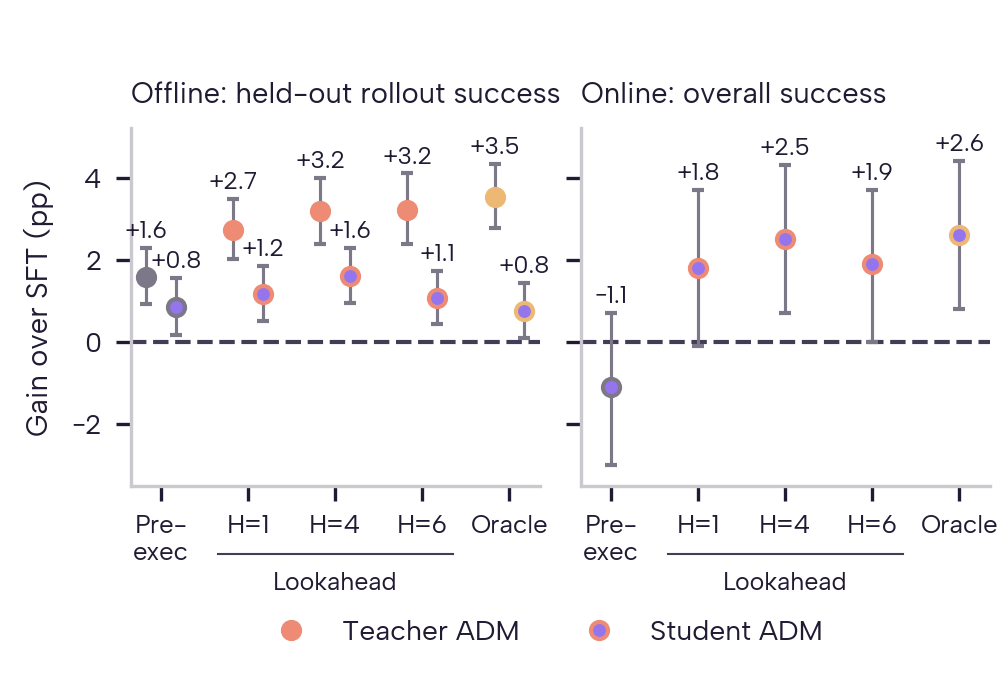
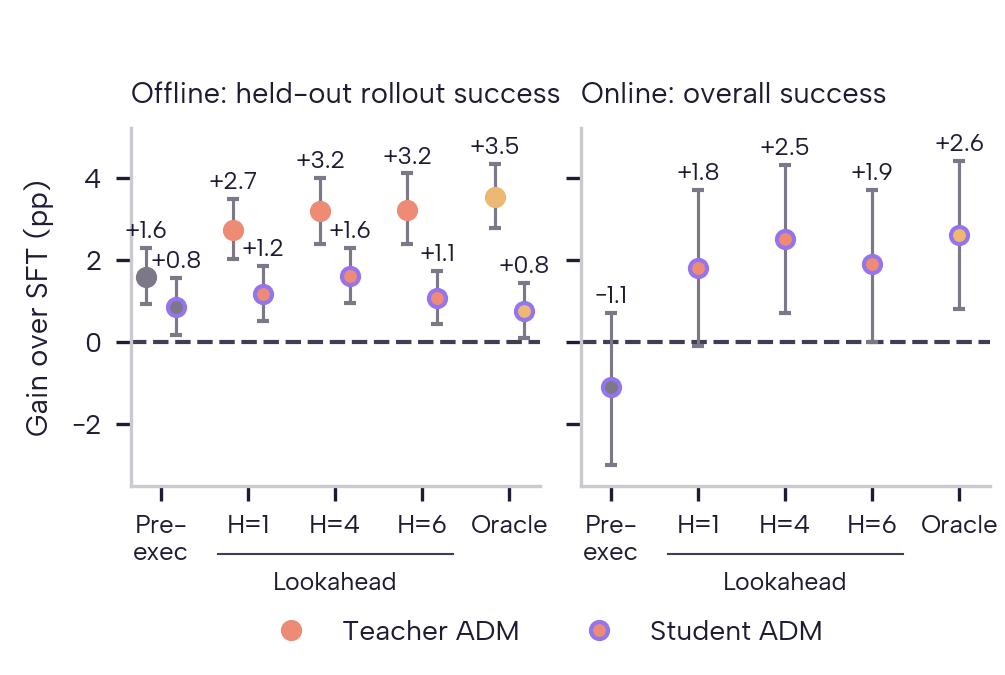
Use label-source fills and purple outlines for student ADM markers

diff --git a/openwebrl/docs/arm_results/rl_integration/selection-label-setups-kfold-20261101-plot.py b/openwebrl/docs/arm_results/rl_integration/selection-label-setups-kfold-20261101-plot.py
@@ -59,15 +59,15 @@ fig, axes = plt.subplots(1, 2, figsize=(3.35, 2.25), sharey=True)
 for ax, (title, kind, base) in zip(axes, PANELS):
     ax.axhline(0, color=MUTED, lw=1, ls="--", zorder=0)
     for x, (_, color, src, live) in enumerate(ROWS):
-        outline = color
+        outline = C["ADM_STUDENT"]
         if kind == "live":
             if live is None:
                 ax.text(x, 0.4, "not run\nlive", ha="center", va="bottom", fontsize=6.5, color=MUTED)
                 continue
-            point(ax, x, LIVE3["weighted"][LIVE3_KEY[src]]["minus_sft"], C["ADM_STUDENT"], "o", True, outline=outline)
+            point(ax, x, LIVE3["weighted"][LIVE3_KEY[src]]["minus_sft"], color, "o", True, outline=outline)
         else:
             point(ax, x - 0.17, P[src]["teacher_minus_sft"], color, "o", True)
-            point(ax, x + 0.17, P[src]["head_minus_sft"], C["ADM_STUDENT"], "o", True, outline=outline)
+            point(ax, x + 0.17, P[src]["head_minus_sft"], color, "o", True, outline=outline)
     ax.set_title(title, fontsize=7, loc="left", color=INK, pad=6)
     ax.set_xticks(range(len(ROWS)), [r[0] for r in ROWS], fontsize=6.2); ax.set_xlim(-0.35, len(ROWS) - 0.65)
     # The shared label spans whichever horizons are displayed.
@@ -87,8 +87,8 @@ axes[0].set_ylabel("Gain over SFT (pp)", fontsize=7, color=INK)
 handles = [
     Line2D([], [], marker="o", ls="", color=C["LOOKAHEAD_TEACHER"], ms=4.1,
            markeredgewidth=1.0, markerfacecolor=C["LOOKAHEAD_TEACHER"]),
-    Line2D([], [], marker="o", ls="", color=C["LOOKAHEAD_TEACHER"], ms=4.1,
-           markeredgewidth=1.0, markerfacecolor=C["ADM_STUDENT"]),
+    Line2D([], [], marker="o", ls="", color=C["ADM_STUDENT"], ms=4.1,
+           markeredgewidth=1.0, markerfacecolor=C["LOOKAHEAD_TEACHER"]),
 ]
 fig.legend(handles, ["Teacher ADM", "Student ADM"], frameon=False, fontsize=6.8,
            loc="lower center", ncol=2, bbox_to_anchor=(0.54, 0.005), columnspacing=1.8)

diff --git a/openwebrl/docs/ARM_FINAL_RESULTS.md b/openwebrl/docs/ARM_FINAL_RESULTS.md
@@ -1418,7 +1418,7 @@ All four attention × scorer × loss combinations plus causal attention, one run
 
   ![Teacher ADM and Student ADM (solid circles): offline held-out rollout success and online overall success, shown as gains over SFT](arm_results/rl_integration/selection-label-setups-kfold-20261101.png)
 
-  *Column-width 3.35 × 2.25-inch layout. Shown label sources: Pre-exec, Lookahead H = 1, H = 4, H = 6 and Oracle. H = 1 is the immediate-result teacher; H = 4/6 correspond to the legacy three-/five-continuation-action conditions. H = 2 remains in the tables but is omitted here. The three H ticks share a Lookahead label to fit the column width. Solid circles: Teacher ADM, colored by label source (neutral Pre-exec, salmon Lookahead, amber Oracle); purple-filled circles with thick label-source outlines: Student ADM-22M (gray Pre-exec, salmon-orange Lookahead, amber Oracle; online evaluates the student only). Oracle uses the same amber (`#EDB774`) as the collection schematic. Offline: 1,725 states, 433 tasks, task-level 5-fold student predictions with 3 training seeds; held-out rollouts 4–8, valid only. Labels use rollouts 1–3 where applicable; Oracle selects the best action on those label rollouts. Online: task-weighted overall success across OM2W (300 tasks), WebVoyager (595) and DeepShop (150), with weights 300/1,045, 595/1,045 and 150/1,045; seed-0 student, 3 runs. Gains are relative to one SFT 4B sample on each panel's own population (offline 38.8%, online 41.4%); compare orderings across panels, not gain sizes. Bars: 95% intervals, task-clustered bootstrap offline and paired over tasks online. All intervals are shown in full.* [Paper PDF](arm_results/rl_integration/selection-label-setups-kfold-20261101.pdf) · [SVG](arm_results/rl_integration/selection-label-setups-kfold-20261101.svg).
+  *Column-width 3.35 × 2.25-inch layout. Shown label sources: Pre-exec, Lookahead H = 1, H = 4, H = 6 and Oracle. H = 1 is the immediate-result teacher; H = 4/6 correspond to the legacy three-/five-continuation-action conditions. H = 2 remains in the tables but is omitted here. The three H ticks share a Lookahead label to fit the column width. Solid circles: Teacher ADM, colored by label source (neutral Pre-exec, salmon Lookahead, amber Oracle); label-source-filled circles with purple outlines: Student ADM-22M (gray Pre-exec, salmon-orange Lookahead, amber Oracle; online evaluates the student only). Oracle uses the same amber (`#EDB774`) as the collection schematic. Offline: 1,725 states, 433 tasks, task-level 5-fold student predictions with 3 training seeds; held-out rollouts 4–8, valid only. Labels use rollouts 1–3 where applicable; Oracle selects the best action on those label rollouts. Online: task-weighted overall success across OM2W (300 tasks), WebVoyager (595) and DeepShop (150), with weights 300/1,045, 595/1,045 and 150/1,045; seed-0 student, 3 runs. Gains are relative to one SFT 4B sample on each panel's own population (offline 38.8%, online 41.4%); compare orderings across panels, not gain sizes. Bars: 95% intervals, task-clustered bootstrap offline and paired over tasks online. All intervals are shown in full.* [Paper PDF](arm_results/rl_integration/selection-label-setups-kfold-20261101.pdf) · [SVG](arm_results/rl_integration/selection-label-setups-kfold-20261101.svg).
 
   Evidence: [pooled results, contrasts and per-fold numbers](arm_results/rl_integration/selection-label-kfold-20261101.json) · [analysis script](arm_results/rl_integration/selection-label-kfold-20261101-analysis.py) · [plot script](arm_results/rl_integration/selection-label-setups-kfold-20261101-plot.py)
 
